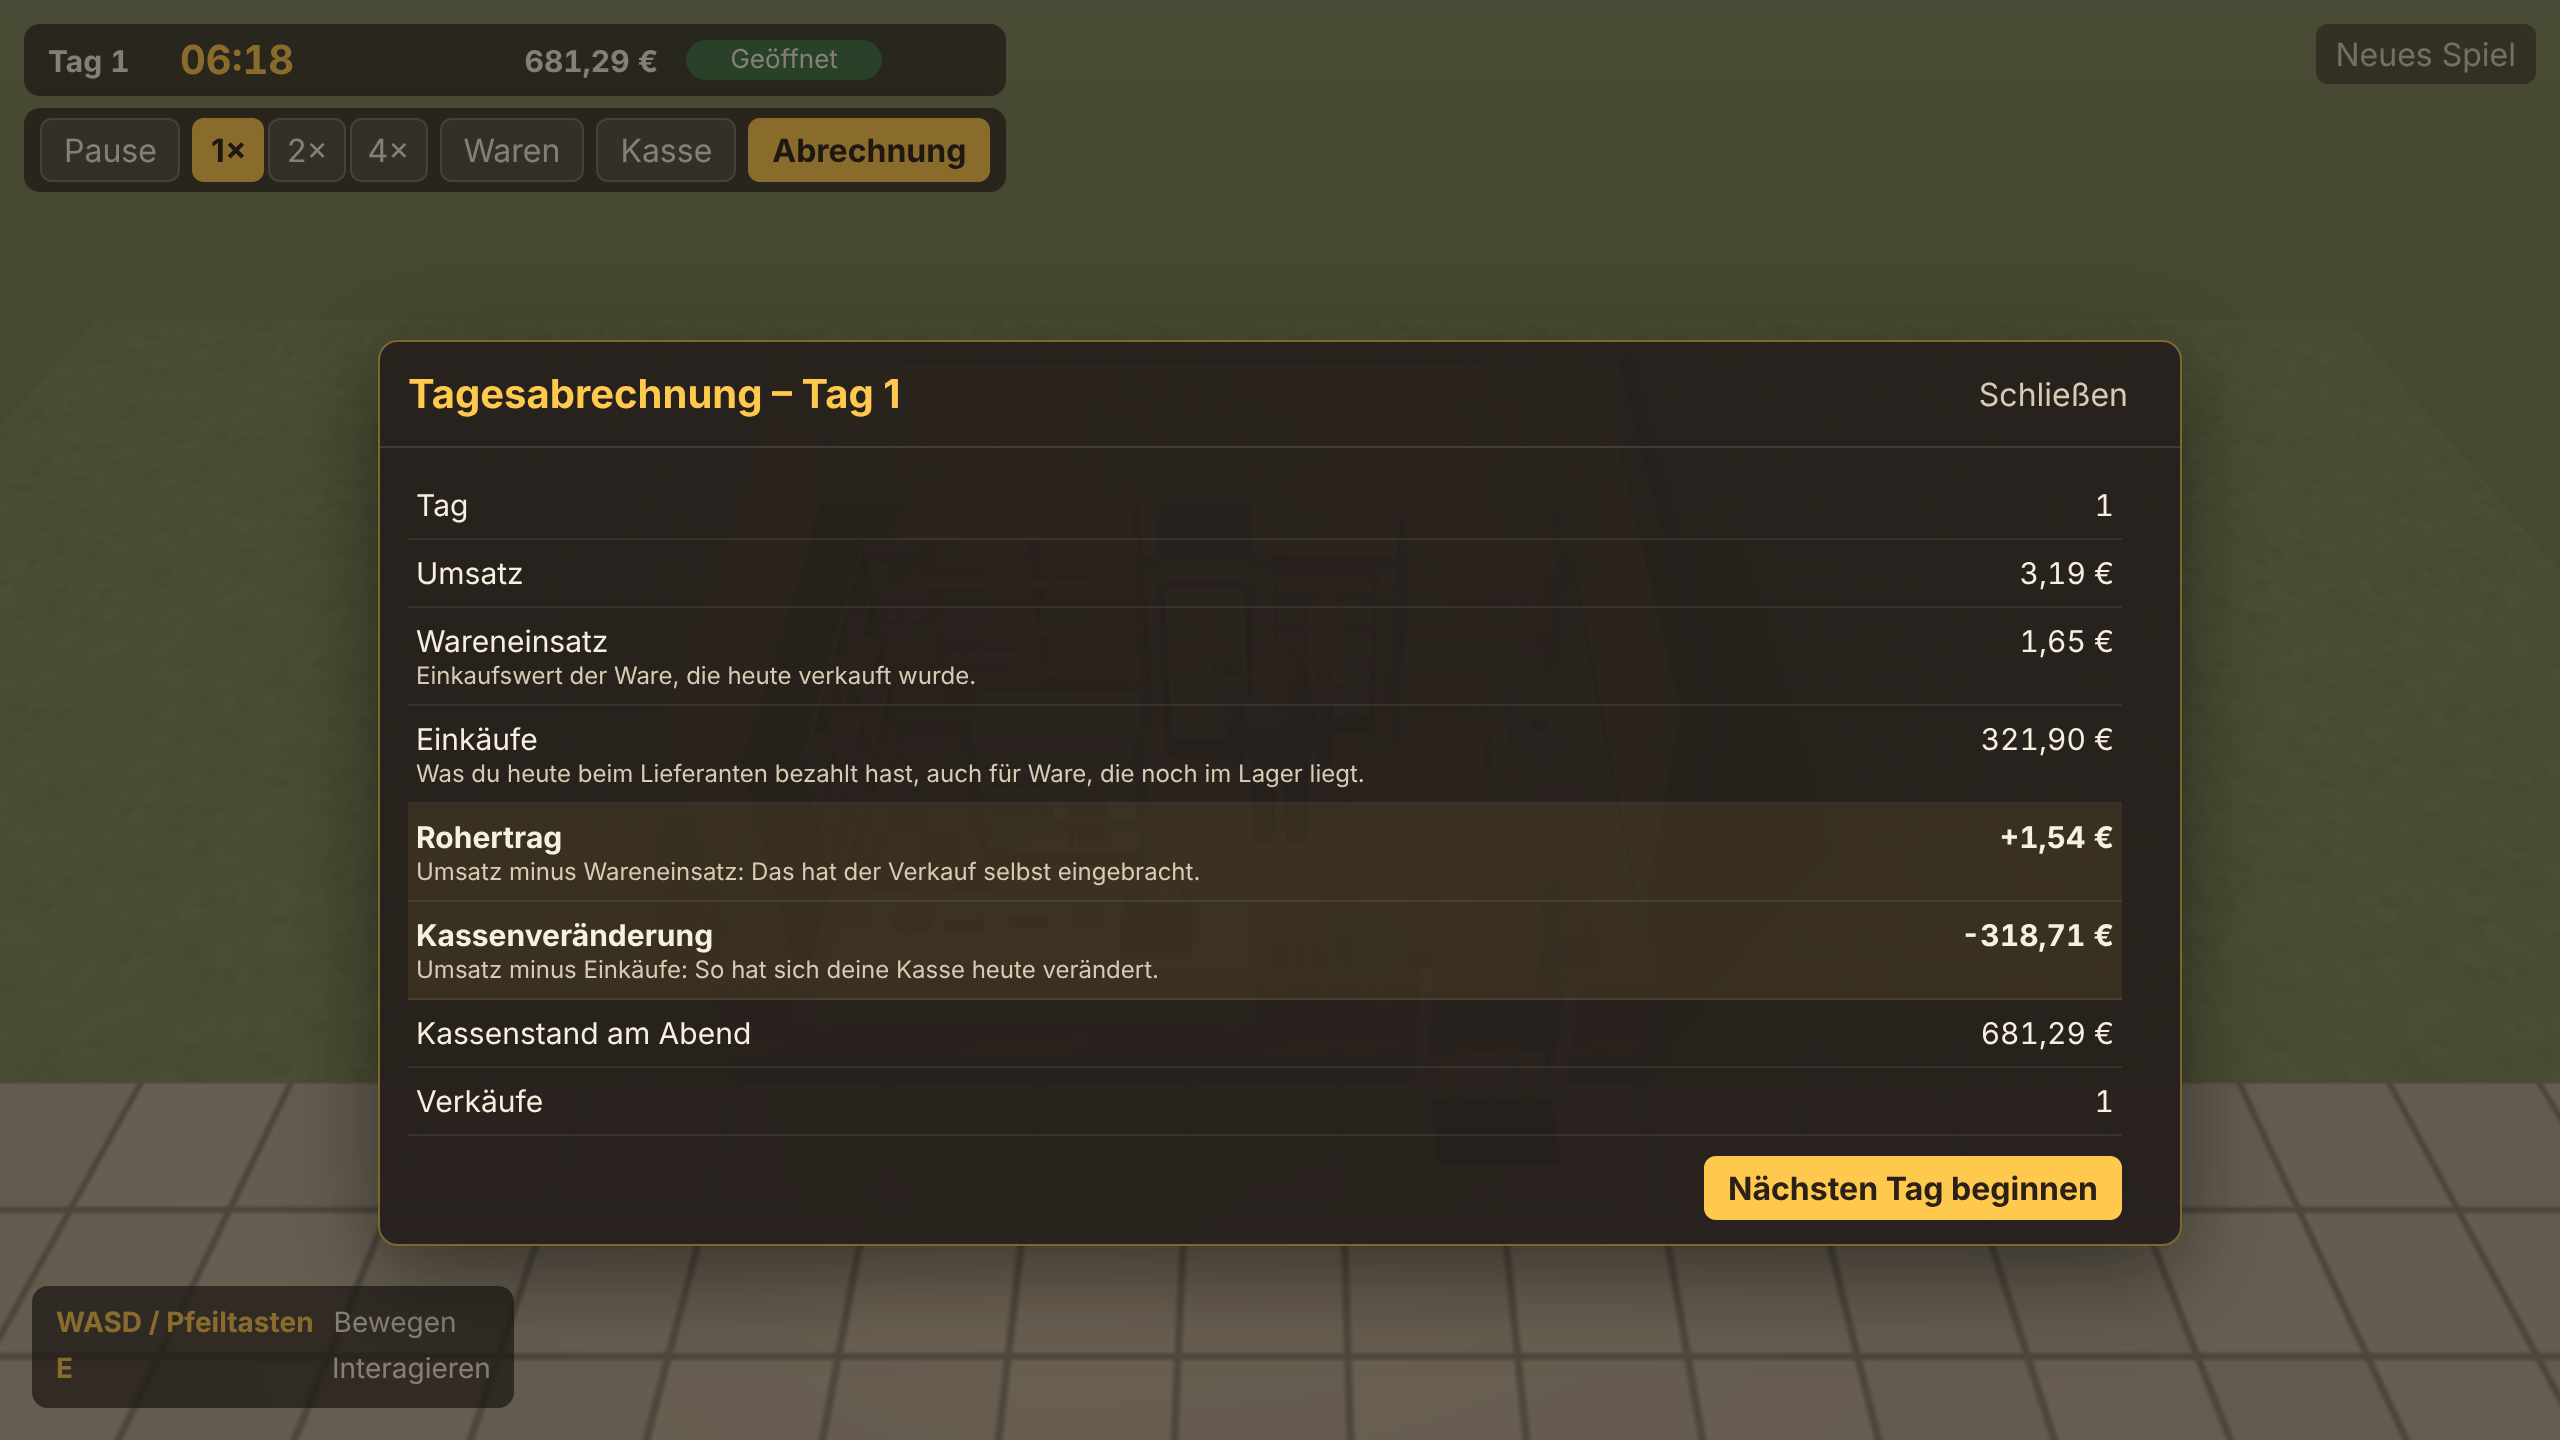
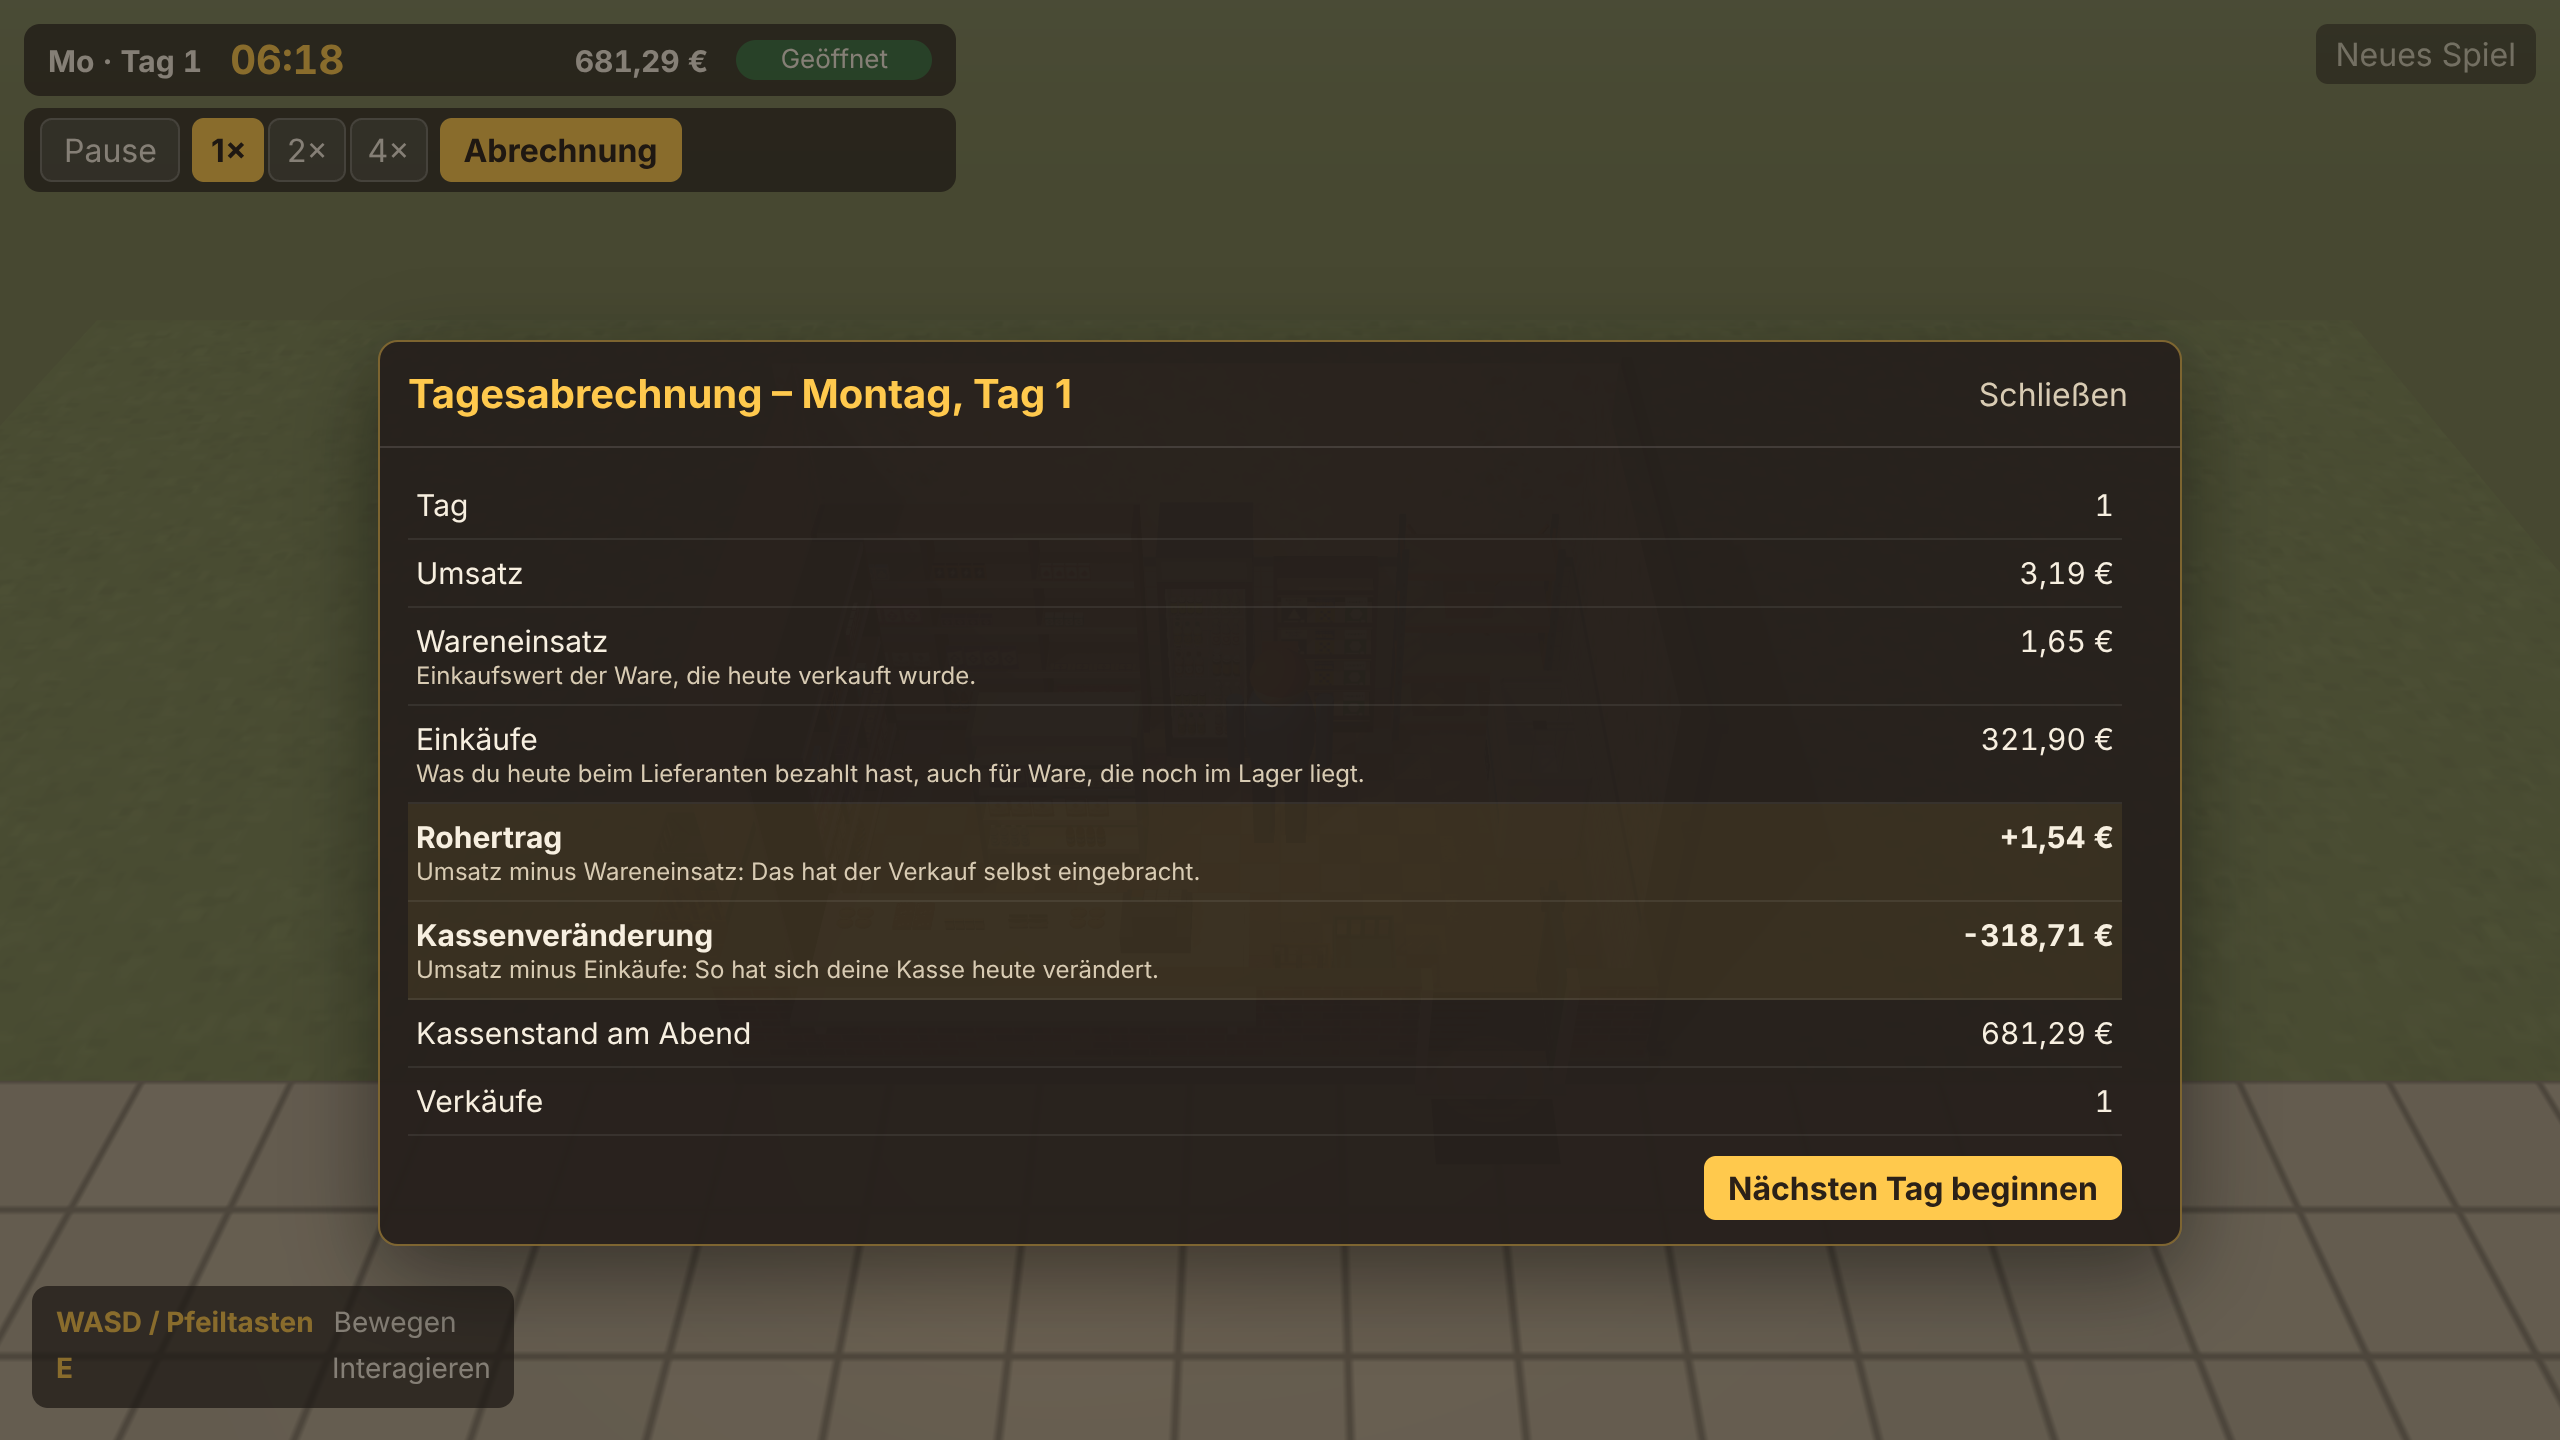
docs: results after the Auftrag 03 follow-up (370 tests, browser check 98/98), new screenshots
Claude-Session: https://claude.ai/code/session_01FofYyf6JtoJeWpoGAZqpif

Changed region(s): [[0.1562, 0.0, 0.4062, 0.1562], [0.0, 0.0312, 0.1562, 0.0625], [0.3125, 0.25, 0.4062, 0.2812]]

diff --git a/docs/TECHNISCHER-IST-STAND.md b/docs/TECHNISCHER-IST-STAND.md
@@ -189,12 +189,12 @@ Strikte Trennung: **implementiert** ist in Abschnitt 5 beschrieben, **automatisi
 |---|---|
 | `npm run typecheck` | fehlerfrei |
 | `npm run lint` | fehlerfrei |
-| `npm run test` | 22 Dateien, 367 Tests bestanden (eigener Lauf am 2026-11-13) |
+| `npm run test` | 23 Dateien, 370 Tests bestanden (eigener Lauf am 2026-11-13) |
 | `npm run build` | erfolgreich, Größen siehe Abschnitt 8 |
-| `npm run check:browser` | 90 von 90 Prüfungen bestanden (eigener Lauf 2026-11-13, 683 Sekunden; davor zwei grüne Läufe des umsetzenden Subagenten) |
+| `npm run check:browser` | 98 von 98 Prüfungen bestanden (eigener Lauf 2026-11-13 nach der Nacharbeit, 727 Sekunden) |
 | `npm audit` | 0 Hinweise am 2026-11-12; am 2026-11-13 nicht erneut ausgeführt |
 
-**Automatisiert getestet mit Vitest (367 Tests, 22 Dateien; Dateien mit Auftrag-03-Bezug):**
+**Automatisiert getestet mit Vitest (370 Tests, 23 Dateien; Dateien mit Auftrag-03-Bezug):**
 - `src/game/economy.test.ts` (35): Startwerte, Bestellung (Kapitalprüfung bis auf den letzten Cent, genau eine offene Lieferung, Lagerkapazität inkl. reservierter Lieferung, gesperrt nach Tagesabschluss), Lieferung, Einräumen und Zurücknehmen (Lagerart, fremdes Produkt, Kapazität, Bestand), Verkauf (Buchungen, Atomarität, mehrere Plätze, nur Regalbestand, Klappe zu, Phasen), Alterskontrolle (gesperrt ohne, möglich mit Bestätigung, Ableitung nur aus Produktdaten, gemischter Warenkorb), Tagesbericht und Transaktionsgrenze, Invariante „Geld und Mengen bleiben nicht negative ganze Zahlen“ in einer langen Zufallssitzung.
 - `src/game/clock.test.ts` (10): ein Spielminute je Sekunde, Pause, 2× und 4×, ungültige Zeitschritte, Begrenzung bei 22:00 mit riesigem Zeitschritt und genau ein Signal, kein automatischer Abschluss, Unabhängigkeit von Tür und Klappe, genau ein Tagesabschluss, vorzeitiger Abschluss, nächster Tag.
 - `src/game/save/save.test.ts` (75): Rundlauf von Version 2, Migration 1→2 mit Erhalt von Position, Tür und Klappe, beschädigter Version-1-Stand, Wertebereiche, Verwerfen unbekannter Produkt- und Platz-IDs mit Warnungen, Kürzen auf geänderte Kapazität, kein Warenkorb im Spielstand.
@@ -204,9 +204,11 @@ Strikte Trennung: **implementiert** ist in Abschnitt 5 beschrieben, **automatisi
 - `src/game/game.test.ts` (15), `interaction.test.ts` (5): Tür und Klappe unverändert, Kasse und Lager ändern keinen Zustand und senden `interaction.triggered`.
 - Nicht automatisiert getestet sind die DOM-Panels selbst und das Rendering außerhalb der Browserprüfung; die Panels werden nur über die Browserprüfung (siehe unten) berührt.
 
-**Browserprüfung (Auftrag 03):** 90 Prüfungen, davon 43 im neuen Wirtschaftsabschnitt und 47 in den übrigen Abschnitten (Bewegung, Kollision, Interaktion, Sichtfreistellung, Platzierungen, Screenshots). Die Wirtschaftsaktionen werden über die echte Oberfläche mit Klicks und Tasten ausgelöst; der Debug-Zugang dient nur zum Lesen des Zustands und zum Versetzen der Figur. Geprüft wird:
+**Browserprüfung (Auftrag 03):** 98 Prüfungen, davon 51 im neuen Wirtschaftsabschnitt und 47 in den übrigen Abschnitten (Bewegung, Kollision, Interaktion, Sichtfreistellung, Platzierungen, Screenshots). Die Wirtschaftsaktionen werden über die echte Oberfläche mit Klicks und Tasten ausgelöst; der Debug-Zugang dient nur zum Lesen des Zustands und zum Versetzen der Figur. Geprüft wird:
 - HUD: Tag 1, 06:00 Uhr, Startkasse 300,00 €, Status folgt der Klappe.
 - E am Lagerpunkt öffnet die Warenverwaltung; bei offenem Panel bewegt sich die Figur nicht; Escape schließt.
+- Das HUD hat keine Schaltflächen für Kasse und Warenverwaltung; auf dem Gehweg und im Hof gibt es keinen Weg, sie zu öffnen; an Kasse und Lagerregal öffnen E und ein Klick auf den Hinweis das passende Panel; „Neues Spiel“ bzw. ein Zustandswechsel schließt ein offenes Panel.
+- Wochentag im HUD: „Mo · Tag 1“, nach dem Tageswechsel „Di · Tag 2“.
 - Bestellung: angezeigte Summe entspricht den Produktdaten; Kasse sinkt um genau die Summe; Bestellung über dem Kassenbestand und zweite Bestellung bei offener Lieferung werden sichtbar abgelehnt und ändern nichts.
 - Lieferung annehmen: Lager entspricht der Bestellung.
 - Einräumen: nur passende Produkte werden angeboten; Regalstände entsprechen den Daten; die 3D-Welt zeichnet je Platz genau so viele Einheiten wie im Bestand; der bestückte Innenraum unterscheidet sich im Bild deutlich vom leeren.

diff --git a/docs/IMPLEMENTIERUNGSPLAN.md b/docs/IMPLEMENTIERUNGSPLAN.md
@@ -91,7 +91,7 @@ Umfang:
 
 **Status (2026-11-13): umgesetzt mit Auftrag 03.** O-3 und O-4 sind in [ARCHITEKTUR-ENTSCHEIDUNGEN.md](ARCHITEKTUR-ENTSCHEIDUNGEN.md) entschieden und umgesetzt. Einzelheiten, Prüfergebnisse und Einschränkungen: [TECHNISCHER-IST-STAND.md](TECHNISCHER-IST-STAND.md); Verträge: [MODUL-UND-DATENVERTRAEGE.md, Abschnitt 15](MODUL-UND-DATENVERTRAEGE.md); Katalog: [PRODUKTKATALOG.md](PRODUKTKATALOG.md).
 - Umgesetzt: 28 fiktive Produkte (`P-001` bis `P-028`) mit 3D-Modellen und Etiketten, 67 Warenplätze mit geometrischer Kapazität, Hinterlager, Bestellung mit sofort eintreffender, ausdrücklich anzunehmender Lieferung, Einräumen und Zurücknehmen, Kasse mit Warenkorb, Transaktionen und Alterskontrolle als Verkaufsschranke, Spieluhr (1 Minute = 1 Sekunde, 06:00–22:00, Pause, 1×/2×/4×, Halt bei 22:00 bis zum ausdrücklichen Abschluss), Tagesabrechnung, HUD und Panels (Kasse nur am Kassenpunkt, Warenverwaltung nur am Lagerpunkt; keine HUD-Schaltflächen dafür), abgeleiteter Wochentag im HUD (Tag 1 = Montag, nicht gespeichert), sichtbarer Bestand im Regal, Savegame Version 2 mit Migration 1→2.
-- Automatisiert getestet: 367 Tests in 22 Dateien (eigener Lauf 2026-11-13); Browserprüfung in Headless-Chromium: 90 von 90 Prüfungen bestanden (eigener Lauf 2026-11-13, davor zwei grüne Läufe des umsetzenden Subagenten). Manuell auf echter Grafikhardware: nicht geprüft.
+- Automatisiert getestet: 370 Tests in 23 Dateien (eigener Lauf 2026-11-13); Browserprüfung in Headless-Chromium: 98 von 98 Prüfungen bestanden (eigener Lauf 2026-11-13 nach der Nacharbeit). Manuell auf echter Grafikhardware: nicht geprüft.
 
 Offene Restpunkte aus Phase 3:
 - Keine Preisänderung durch den Spieler (Verkauf zum vorgeschlagenen Preis); keine Kosten außer Einkäufen; Lieferung ohne Wartezeit; Lager nur als Zähler (400 Stück).

diff --git a/README.md b/README.md
@@ -39,7 +39,7 @@ Phase 3 ist umgesetzt ([Auftrag 03](docs/auftraege/03-waren-wirtschaftskreislauf
 
 Noch nicht vorhanden: Preisänderungen, Kunden und Nachfrage (Verkäufe sind ein Kassenvorgang des Spielers), Bewohner, Wetter, Events, Audio. Alle Marken sind frei erfunden; die Namen sind Arbeitstitel und rechtlich nicht geprüft. Das Sortiment steht im [Produktkatalog](docs/PRODUKTKATALOG.md).
 
-**Prüfstand:** Geprüft wurde ausschließlich automatisch: Typecheck, Lint, 367 Unit- und Integrationstests, Build sowie die Browserprüfung (90 von 90 Prüfungen bestanden) in Headless-Chromium mit Software-Rendering. Die Prüfung auf echter Grafikhardware und in Firefox oder Safari steht aus; die Schritte dafür stehen in der [manuellen Prüfanleitung](docs/PRUEFANLEITUNG-MANUELL.md).
+**Prüfstand:** Geprüft wurde ausschließlich automatisch: Typecheck, Lint, 370 Unit- und Integrationstests, Build sowie die Browserprüfung (98 von 98 Prüfungen bestanden) in Headless-Chromium mit Software-Rendering. Die Prüfung auf echter Grafikhardware und in Firefox oder Safari steht aus; die Schritte dafür stehen in der [manuellen Prüfanleitung](docs/PRUEFANLEITUNG-MANUELL.md).
 
 ![Innenraum mit bestückten Regalen](docs/screenshots/auftrag-03-innen-bestueckt.png)
 
